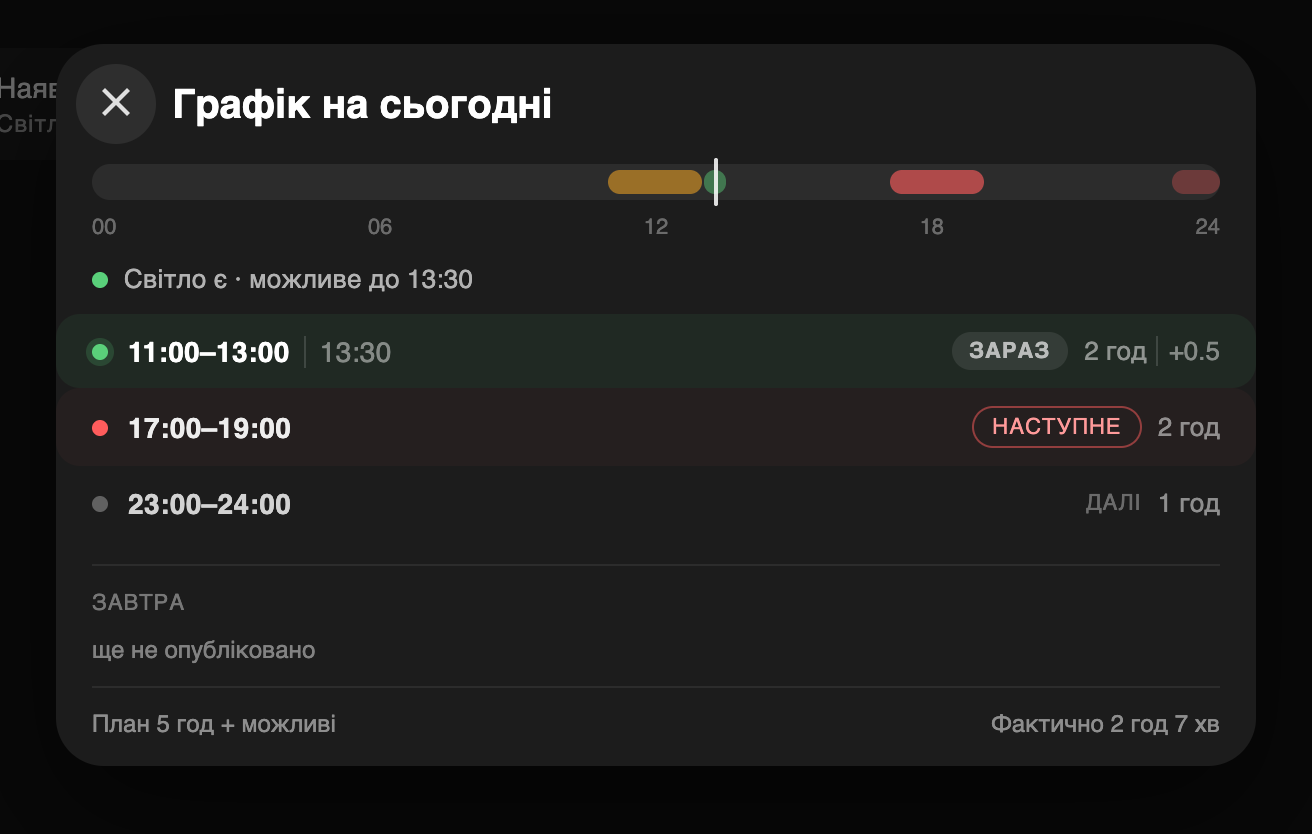
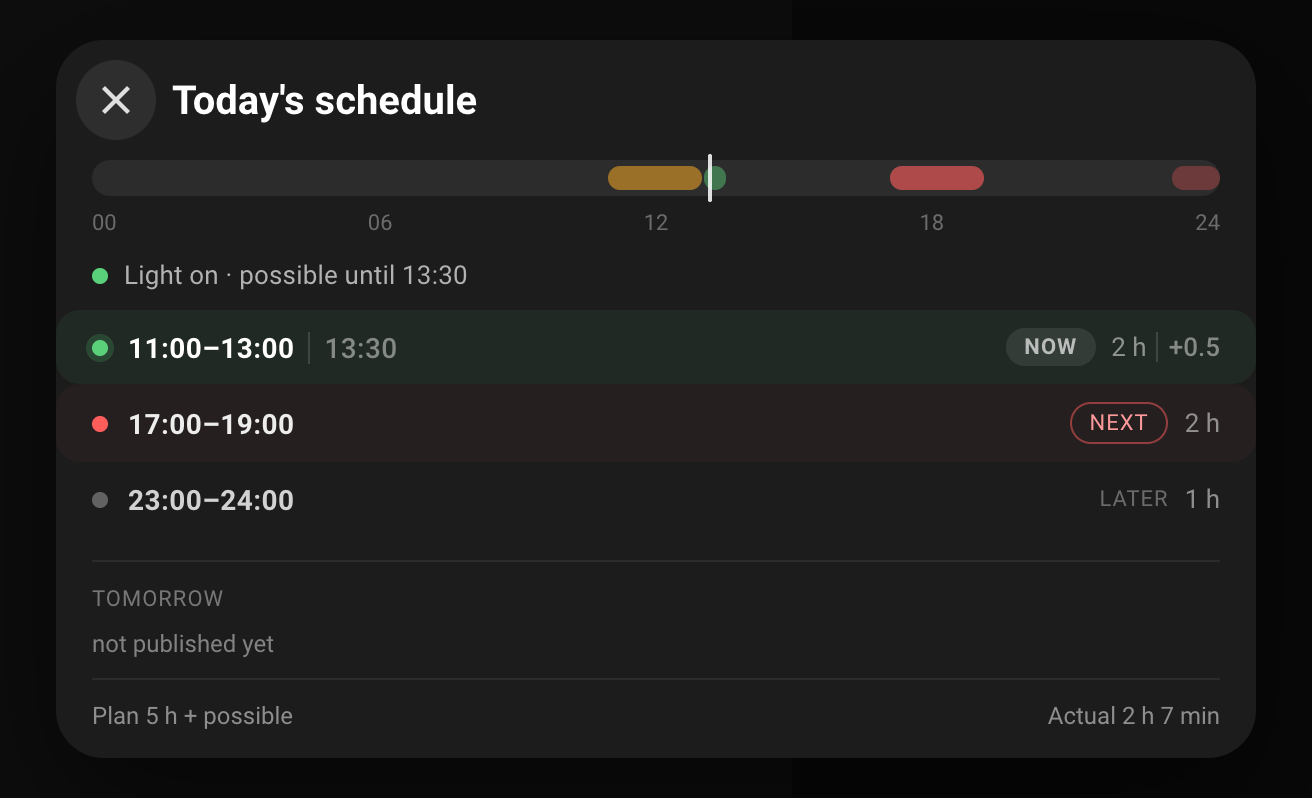
Refresh the docs: English screenshots and a clearer README

diff --git a/README.md b/README.md
@@ -2,6 +2,9 @@
 
 # Svitlo Poltava
 
+[![HACS Custom](https://img.shields.io/badge/HACS-Custom-41BDF5.svg)](https://hacs.xyz)
+[![License: MIT](https://img.shields.io/badge/License-MIT-yellow.svg)](LICENSE)
+
 Power outage schedule for **Poltava**, for Home Assistant. Choose your queue —
 3.1 is the default.
 
@@ -14,46 +17,6 @@ in a native dialog with the same look the dashboard used with browser_mod —
 without browser_mod. HACS installs the integration, and the card is loaded
 automatically; no manual resource entry.
 
-## Screenshots
-
-![Schedule dialog](docs/state-dialog-lit.png)
-
-![Power tile](docs/state-tile-off.png)
-
-## States
-
-The card follows the real light, not only the plan.
-
-### Outage in effect
-
-![Outage in effect](docs/state-dialog-off.png)
-
-### Possible window, light off
-
-![Possible window](docs/state-dialog-possible.png)
-
-### Light on during a planned window
-
-![Light on during a planned window](docs/state-dialog-lit.png)
-
-### Light on, next outage
-
-![Light on, next outage](docs/state-dialog-next.png)
-
-### Tomorrow published
-
-![Tomorrow published](docs/state-dialog-tomorrow.png)
-
-### No schedule
-
-![No schedule](docs/state-dialog-empty.png)
-
-### Tile: light off / on / no data
-
-| Off | On | No data |
-| --- | --- | --- |
-| <img src="docs/state-tile-off.png" width="250" alt="Tile, light off"> | <img src="docs/state-tile-on.png" width="250" alt="Tile, light on"> | <img src="docs/state-tile-empty.png" width="250" alt="Tile, no data"> |
-
 ## Features
 
 - Three states per half-hour slot: **on**, **off**, and **possible**.
@@ -62,7 +25,50 @@ The card follows the real light, not only the plan.
 - One calendar entity with the outage windows.
 - One config entry. The region is fixed; you choose the queue from the operator
   page.
+- A bundled power tile and schedule dialog.
 - Two languages: Ukrainian and English.
+
+## Screenshots
+
+The screenshots use sample schedule data.
+
+![Today's schedule with a possible window](docs/state-dialog-lit.png)
+
+![Power tile](docs/state-tile-off.png)
+
+### States
+
+The card follows the real light, not only the plan.
+
+#### Outage in effect
+
+![Outage in effect](docs/state-dialog-off.png)
+
+#### Possible window, light off
+
+![Possible window](docs/state-dialog-possible.png)
+
+#### Light on during a planned window
+
+![Light on during a planned window](docs/state-dialog-lit.png)
+
+#### Light on, next outage
+
+![Light on, next outage](docs/state-dialog-next.png)
+
+#### Tomorrow published
+
+![Tomorrow published](docs/state-dialog-tomorrow.png)
+
+#### No schedule
+
+![No schedule](docs/state-dialog-empty.png)
+
+### Tile: light off / on / no data
+
+| Off | On | No data |
+| --- | --- | --- |
+| <img src="docs/state-tile-off.png" width="250" alt="Tile, light off"> | <img src="docs/state-tile-on.png" width="250" alt="Tile, light on"> | <img src="docs/state-tile-empty.png" width="250" alt="Tile, no data"> |
 
 ## Installation
 
@@ -75,19 +81,6 @@ The card follows the real light, not only the plan.
 
 Choose your queue from the list. The list comes from the operator page; 3.1 is
 the default.
-
-## Languages
-
-The integration follows the Home Assistant profile language:
-
-1. **Ukrainian** (`uk`) and **English** (`en`) are translated.
-2. The config flow, options and entity names come from
-   `translations/uk.json` and `translations/en.json`.
-3. The card reads `hass.language`: `uk` for Ukrainian, everything else falls
-   back to English.
-
-The schedule data itself is language-neutral: it is 48 half-hour states plus
-timestamps.
 
 ## Card
 
@@ -105,8 +98,8 @@ Every option is optional:
 | `entity` | the only `sensor.svitlo_poltava_*_electricity` with a schedule | the schedule sensor |
 | `presence_entity` | `binary_sensor.grid_present` if it exists, otherwise `binary_sensor.svitlo_poltava_{queue}_power_present` | the real light |
 | `off_today_entity` | `sensor.grid_off_today` if it exists, otherwise none | measured outage hours; without it the footer prints `—` |
-| `title` | `Наявність світла` / `Power present` | tile title |
-| `dialog_title` | `Графік на сьогодні` / `Today's schedule` | dialog title |
+| `title` | `Power present` / `Наявність світла` | tile title |
+| `dialog_title` | `Today's schedule` / `Графік на сьогодні` | dialog title |
 
 The tile shows the real light. Tap it to open the 24-hour rail, one row per
 window, tomorrow's windows, and the plan and measured hours. The dialog is a
@@ -145,8 +138,21 @@ things:
    new queue in its IDs.
 2. **Update interval** — default 120 seconds, allowed range 60–600 seconds.
 
-The card finds the schedule sensor automatically. If you rename the sensor,
-set `entity` explicitly.
+The card finds the schedule sensor automatically. If you rename the sensor, set
+`entity` explicitly.
+
+## Languages
+
+The integration follows the Home Assistant profile language:
+
+1. **Ukrainian** (`uk`) and **English** (`en`) are translated.
+2. The config flow, options and entity names come from
+   `translations/uk.json` and `translations/en.json`.
+3. The card reads `hass.language`: `uk` for Ukrainian, everything else falls
+   back to English.
+
+The schedule data itself is language-neutral: it is 48 half-hour states plus
+timestamps.
 
 ## Data source
 
@@ -155,6 +161,16 @@ set `entity` explicitly.
 The page contains one or more day blocks with a 48-cell table per queue. The
 parser is in `custom_components/svitlo_poltava/poe_gpv.py`; the coordinator maps
 the queue from the config entry to the 48 half-hour slots.
+
+## Troubleshooting
+
+1. **"No schedule for today"** — the operator has not published today yet. The
+   sensor keeps the last known attributes and the card shows the empty state.
+2. **"Possible" is not an outage.** It marks a window the operator warns about;
+   the card draws it grey and never as a certain outage.
+3. **Entity IDs differ from the table** — the IDs follow the Home Assistant
+   language at install time. Search for `Svitlo Poltava` in
+   **Settings → Devices & services** instead of copying an ID from the table.
 
 ## License
 
